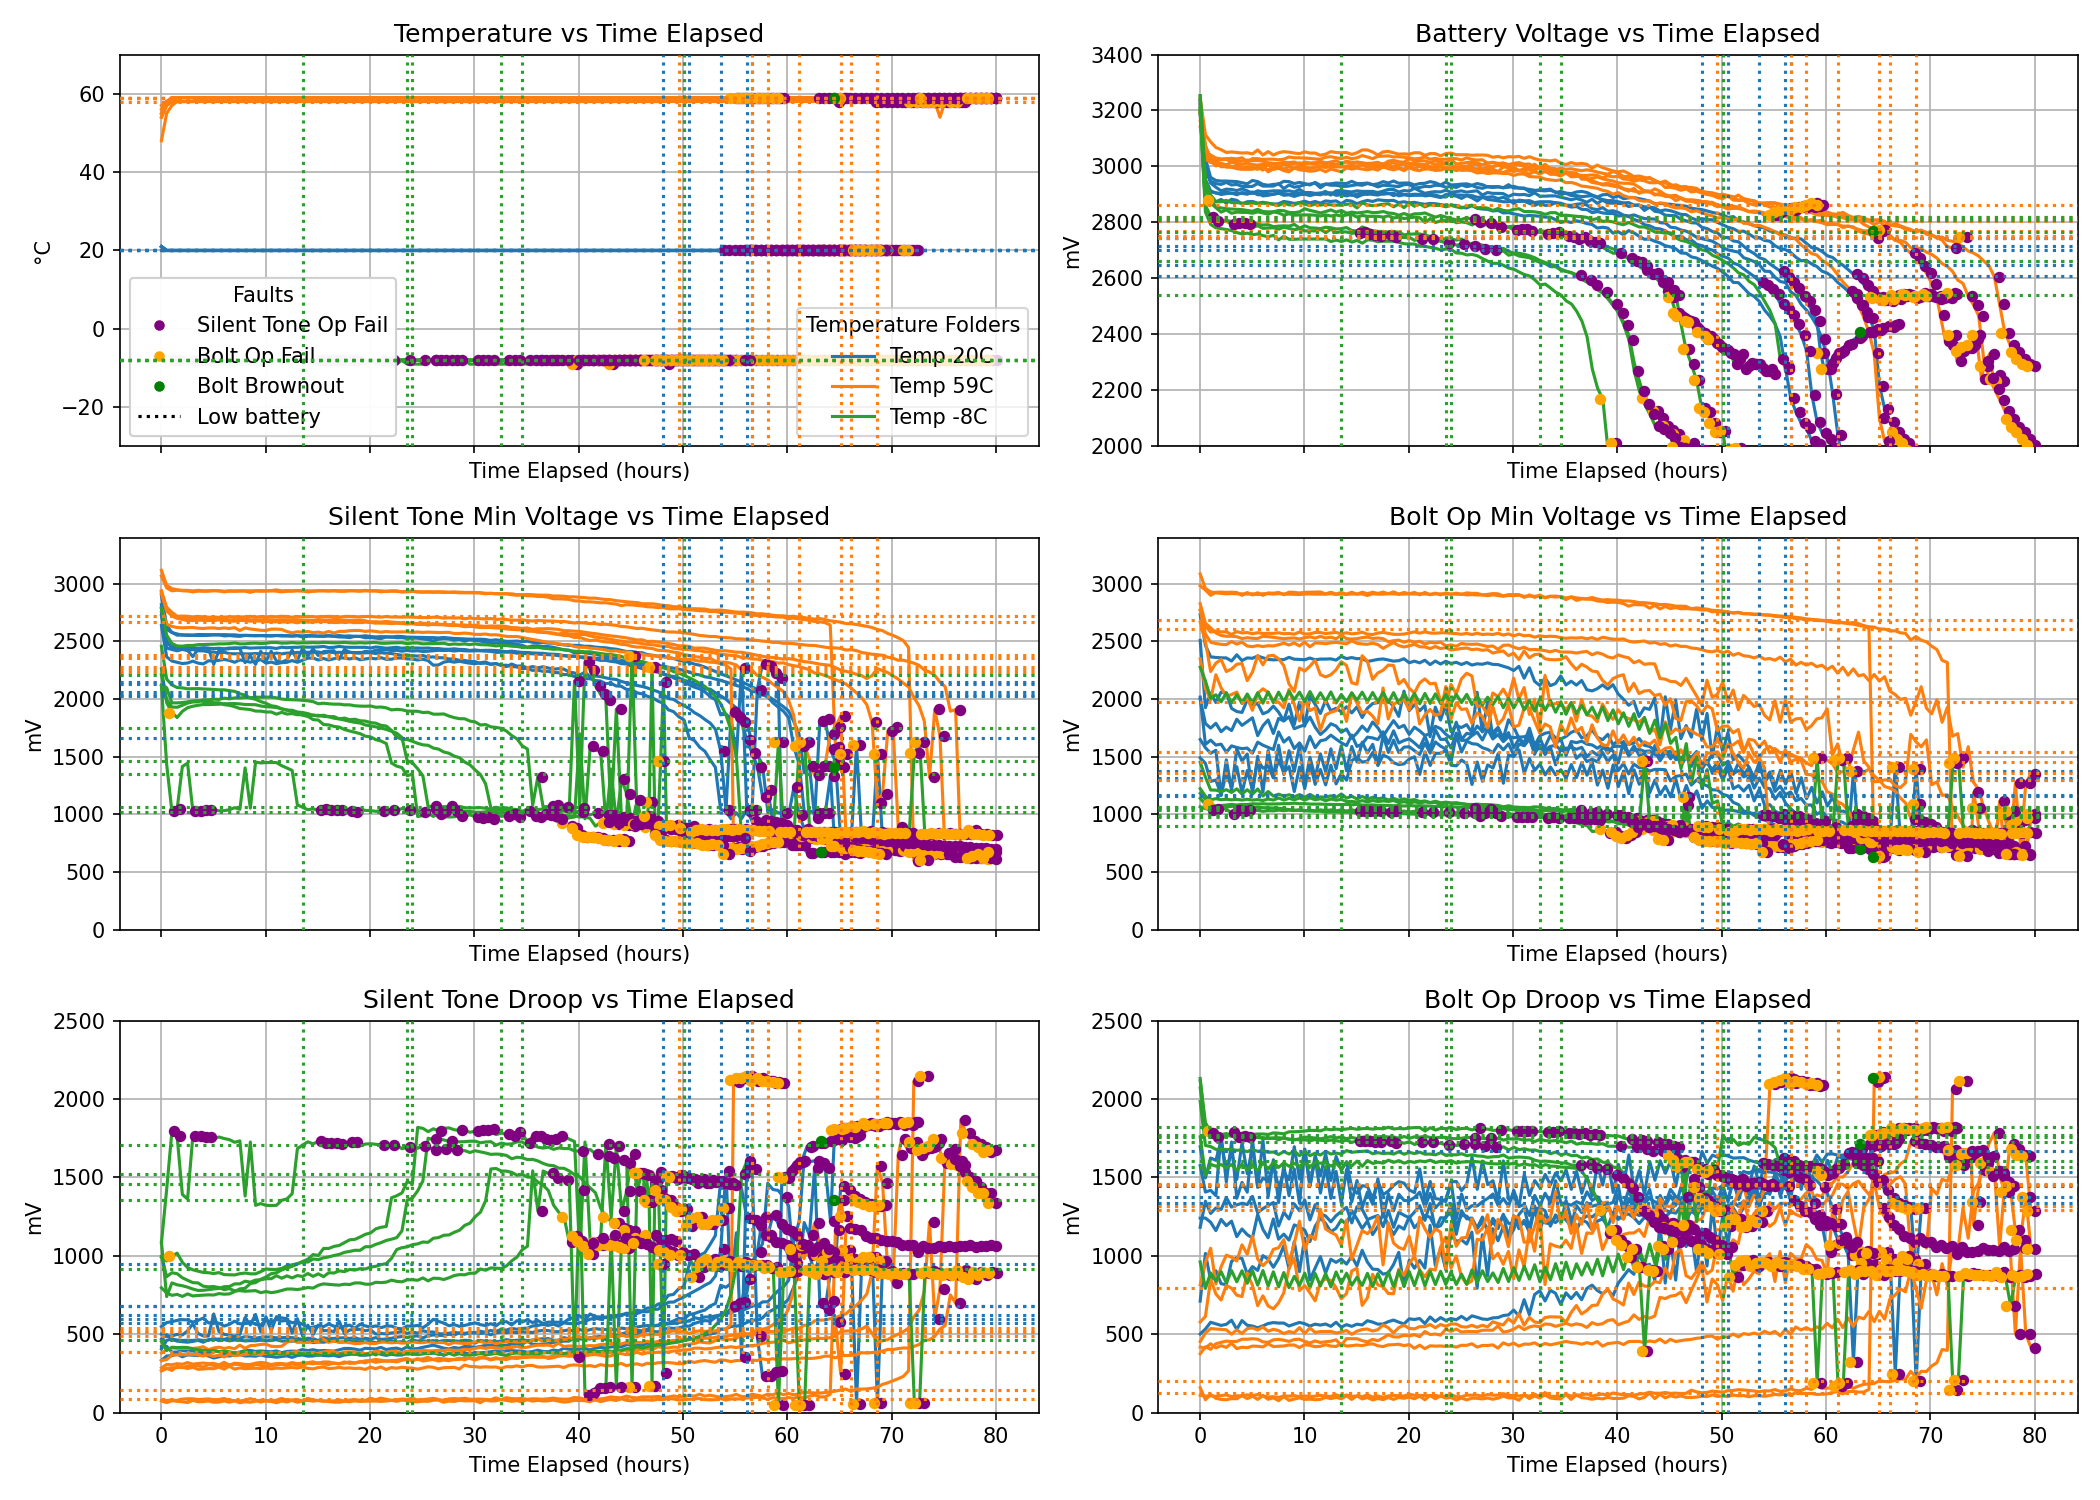
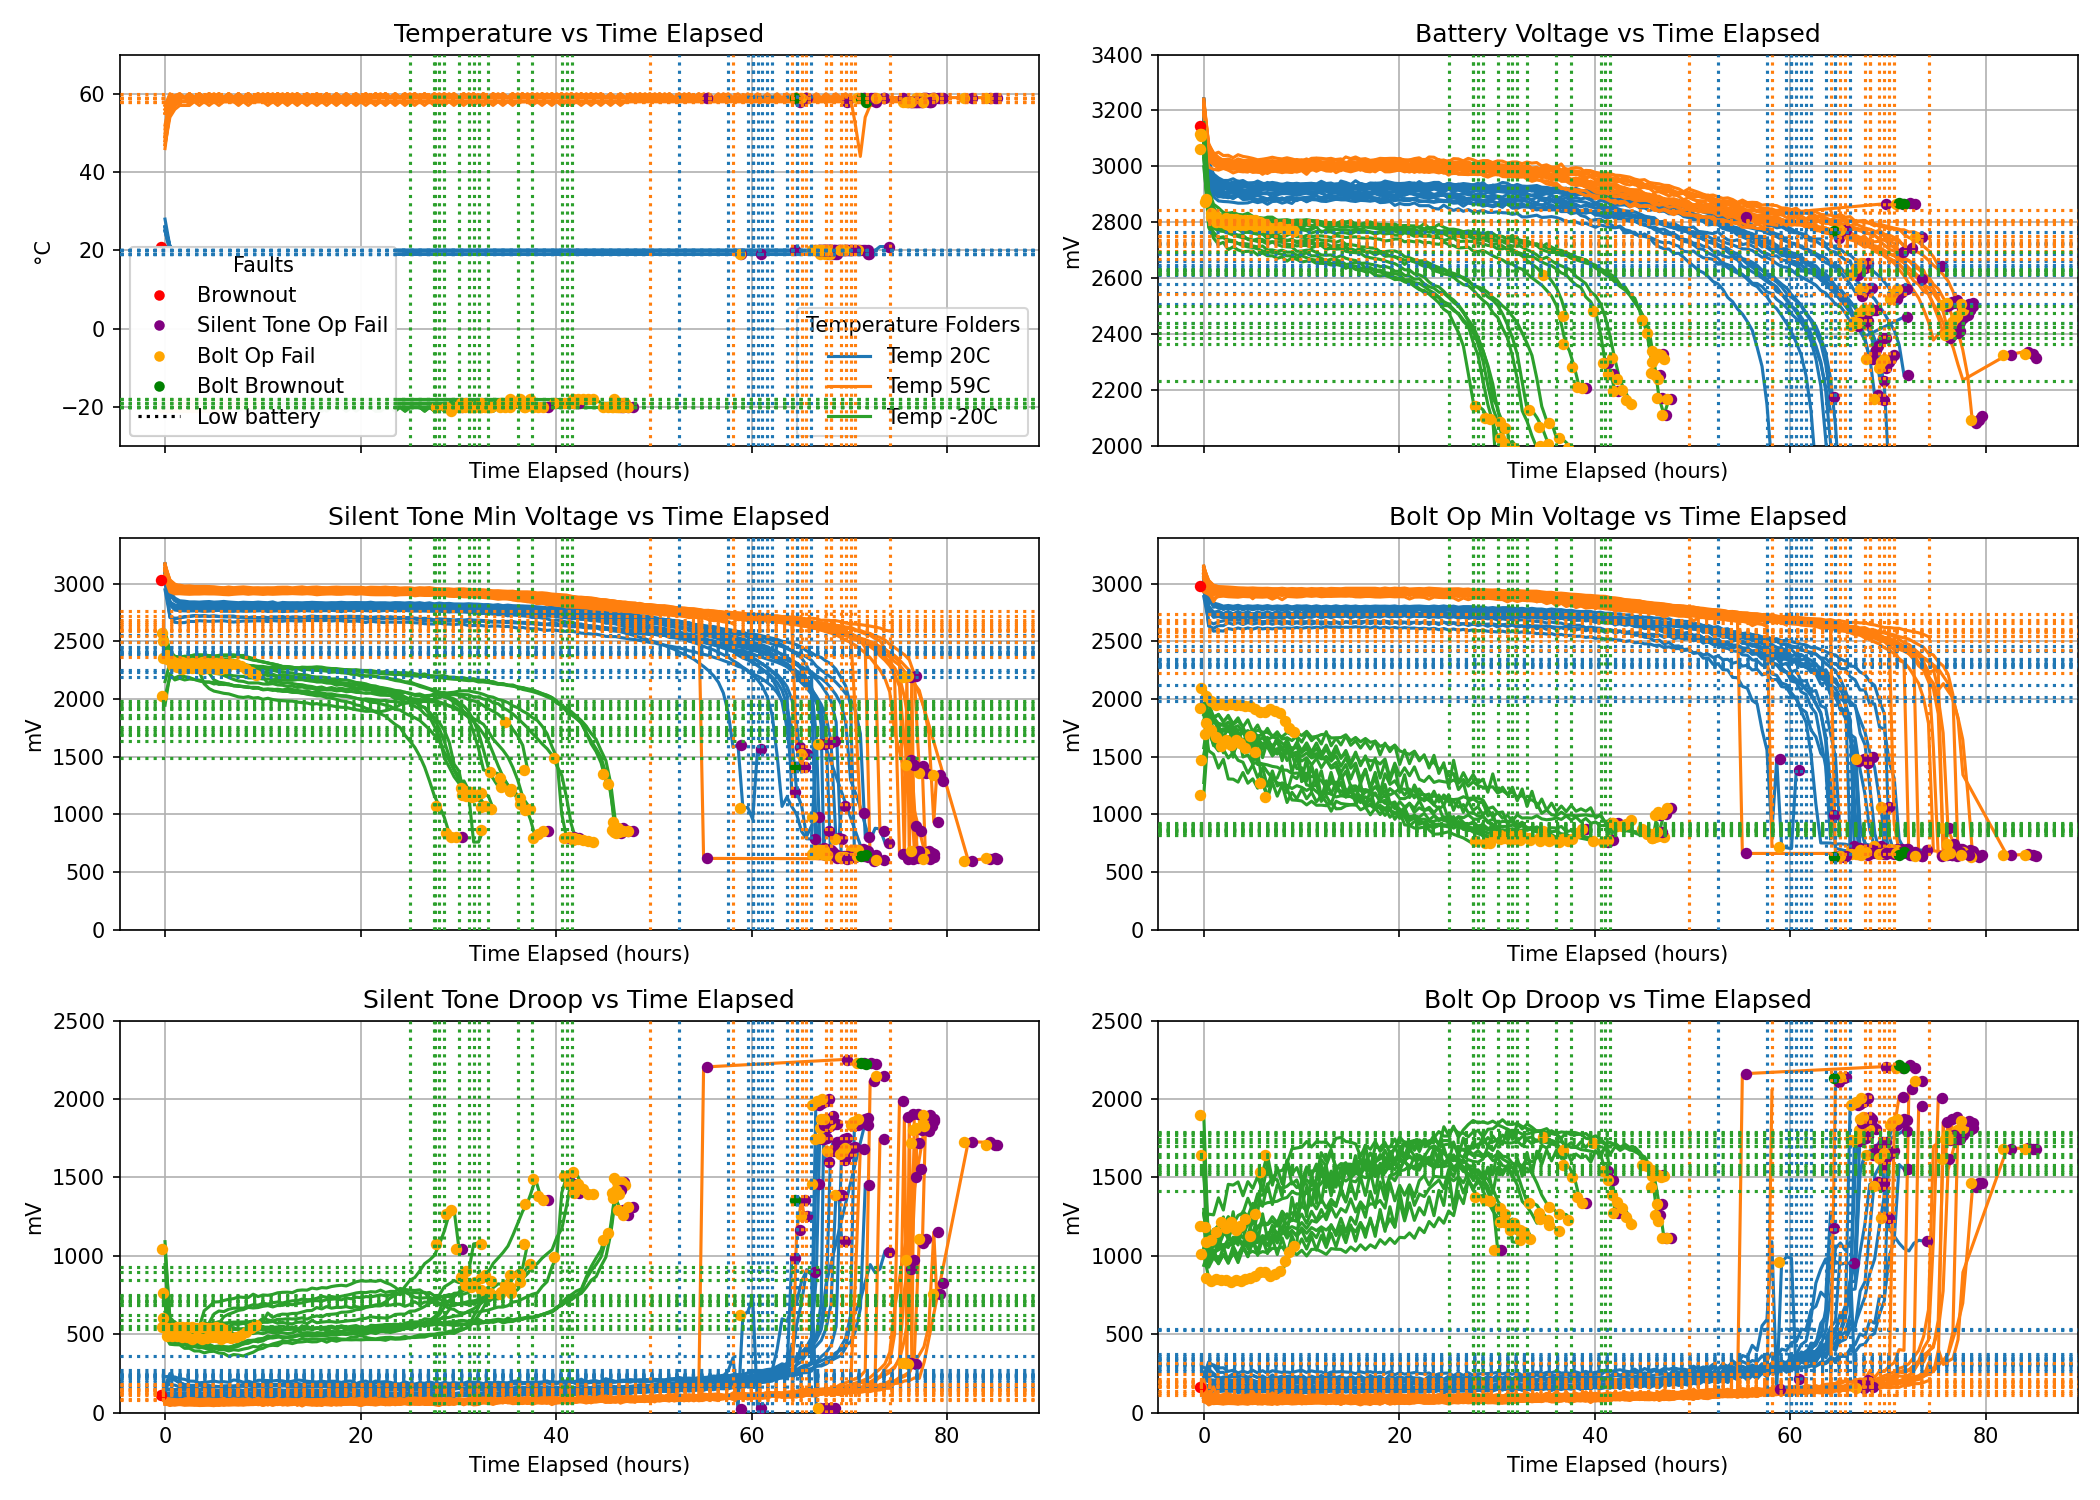
update man all data

diff --git a/plot_temp_man_data.py b/plot_temp_man_data.py
@@ -106,7 +106,7 @@ for tf in temp_folders:
                 any_fault = df[fault_cols].any(axis=1)
                 if any_fault.any():
                     n_rows = len(df)
-                    min_idx = int(np.ceil(0.10 * n_rows))
+                    min_idx = int(np.ceil(0.30 * n_rows))
                     any_fault.iloc[:min_idx] = False
                     if any_fault.any():
                         idx_first_fault = any_fault.idxmax()
@@ -115,6 +115,12 @@ for tf in temp_folders:
                         hours_to_fault = t_fault - t0
                         t_target = t_fault - 0.10 * hours_to_fault
                         idx_low_batt = (t_series - t_target).abs().idxmin()
+            
+            # Trim data 5 indices after the first fault
+            trim_idx = idx_first_fault + 5
+            if trim_idx < len(df):
+                df = df.iloc[:trim_idx]
+                t_series = df["Time Elapsed (hours)"]
 
             for i, (col, title, unit) in enumerate(COLUMNS_TO_PLOT):
                 ax = axes[i]
